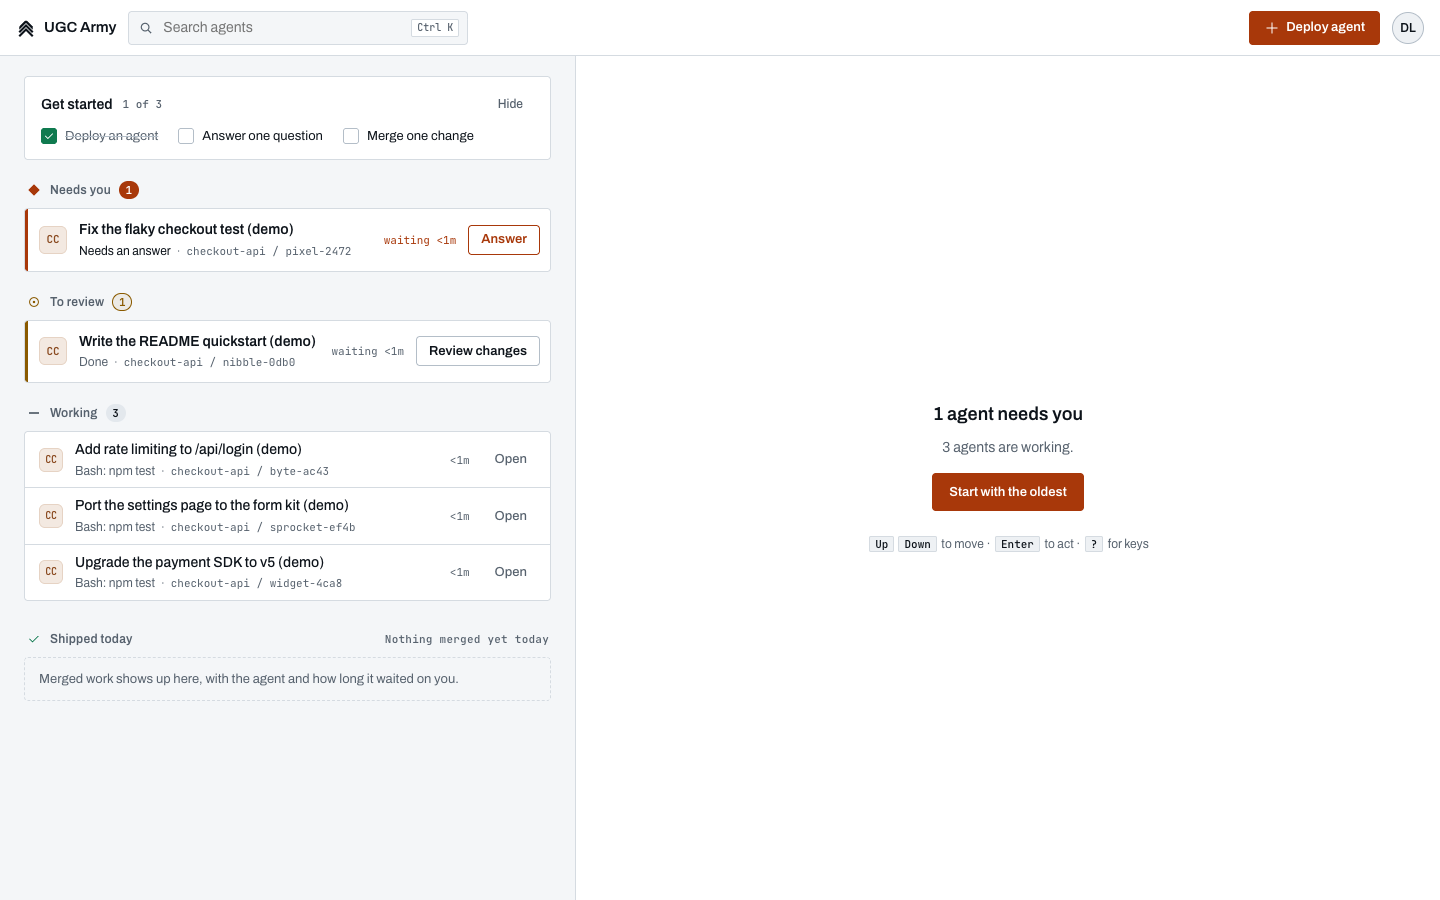
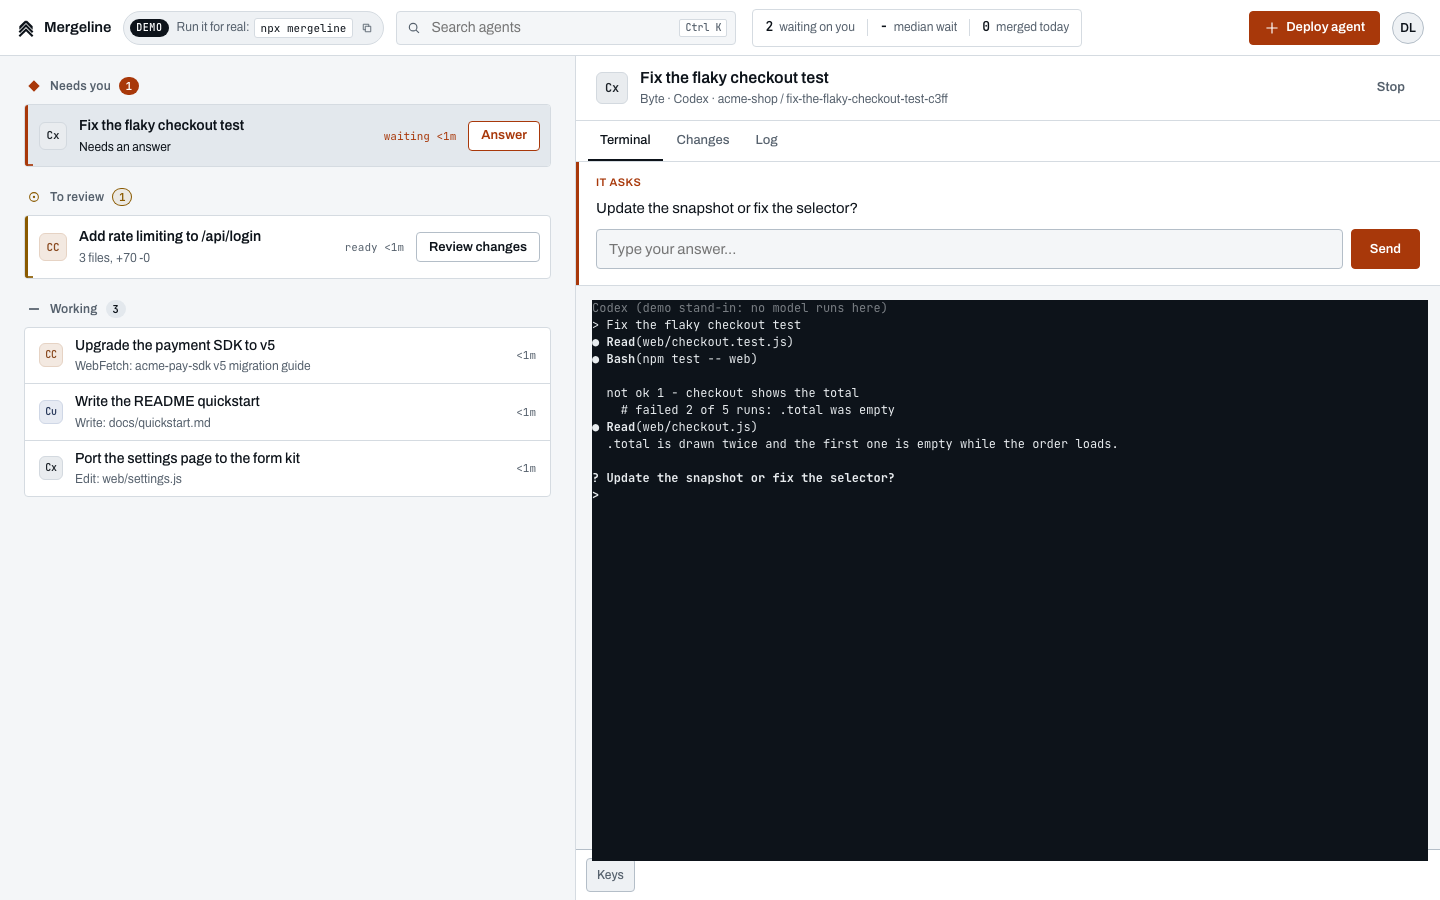
PRODUCT.md: the direction, what changed, what's hidden, the numbers and the pitch
PRODUCT.md is the fundraising build in one page: the wedge (human wait
time across agent CLIs, self-hosted), the business model, every
critique and what was done about it, what was cut or hidden with the
lab that brings it back, time to value and click counts before and
after, and the 60-second investor demo script.

design/measure-final.mjs measures both builds the same way (the
journey from the setup card to a first merge, and the primary screen's
controls and words). The demo shoots answer from the question card.
docs/img's GIF and inbox pictures are the new build's, from the demo.

diff --git a/PRODUCT.md b/PRODUCT.md
@@ -1,0 +1,126 @@
+# Mergeline: the fundraising build
+
+What this branch is, what changed to make it fundable, what was cut or hidden and how to bring it back, the numbers, and the script for showing it to an investor. Mergeline is built on [agent-office](https://github.com/AgentSystemLabs/agent-office) by webdevcody (MIT); LICENSE and NOTICE carry that credit and are unchanged.
+
+## The direction
+
+The POC was a 3D starship bridge where AI coding agents sat at stations, with a 2D view, Mission control, boards, a task queue, meetings, voice, a showcase and Proof of Merge on testnets. It was impressive and hard to explain: many screens, many buttons, and no single number that said why anyone would pay.
+
+The direction we took: **one inbox for every coding agent you run, built around human wait time.** An agent that asks a question at 10:02 and is answered at 10:25 did nothing for 23 minutes. Agent vendors are racing to make agents faster; nobody is measuring or shrinking the time agents spend blocked on a person, across vendors. That is the wedge:
+
+- **Cross-vendor.** Claude Code, Codex and Cursor side by side (OpenCode, Pi and others in beta), each on a branch of its own. A vendor's own dashboard only sees its own agents.
+- **Self-hosted.** It runs on the engineer's laptop or the team's dev box. Code, prompts and the review record never leave it, which is what European and regulated teams ask first.
+- **The metric.** Every merge and send-back is a signed record: which agent and model, who reviewed it, how long it waited on a person. The top bar shows who is waiting now and the median wait today; Numbers shows the week.
+
+Everything that is not that loop is a lab, off by default, still compiled and tested.
+
+### Business model (for the pitch, not the app)
+
+- **Free and open source (MIT), single player.** The inbox, the demo, local merges, the signed log, Numbers. This is the distribution: `npx mergeline` in any repository.
+- **Paid team tier (waitlist on the landing page).** A shared inbox for a team, questions routed to whoever owns them, single sign-on, an audit trail of who merged what and team-level wait-time reporting. Accounts and invite links already work in the free version; routing, SSO and audit export are the paid build.
+- **What the team built beyond the fork.** The fork gave a 3D office with terminals at desks. This team built: the attention ranking that every surface shares, the inbox, the question card, the signed shipped log and its metrics, merging without GitHub, one-command onboarding with no password on your own computer, `mergeline attach`, the scripted demo and its read-only hosted mode, Labs, and the whole Proof of Merge track (devnet bounty escrow, Base Sepolia attestations, ERC-8004 reputation, x402 paid tasks), now parked as a lab.
+
+## What changed in this round, and why
+
+Three critics (an investor, a first user and an engineer) reviewed the build before this round (`design/shots/fundable/review/`). Every item they marked **must** is fixed; most **should** items and several **nice** ones are too. Commits on `product/fundable` after `ae964cad`.
+
+### Musts
+
+| Critique | What we did |
+| --- | --- |
+| The pane was 60% white space at the moment an investor looks | On a wide screen the oldest agent waiting on you opens in the pane by itself; Esc holds it empty until another one starts waiting. The "Start with the oldest" button only shows when you emptied it yourself. |
+| Nothing said why this wins against vendor dashboards, task boards and GitHub | The landing page's subhead is the wedge (who is waiting and for how long, across agent CLIs); human wait time is the second section; a *Why not the tools you already have?* table. The app's top bar carries the pulse: waiting on you now, median wait today, merged today. |
+| The demo diff read as a test harness, with "(demo)" in every title | All final stills, the video and the GIF come from `--demo`, whose agents commit real code (a rate limiter with tests, a selector fix, a quickstart). Titles carry no "(demo)"; one pill in the top bar and a corner tag on the video say it's the demo. |
+| A DEMO card and a checklist pushed the queue 270 px down | The demo note is a pill in the top bar with the command to run it for real; the demo has no Get started checklist; in a real first run the checklist sits under the list. |
+| The hosted demo's shoot timed out | Diagnosed: timing, not a regression. The shoot started the hosted office with the local one, so it was rounds in by the time its shots came, and a row is in To review 12 s of each 85 s round. `tests/demo.test.ts` now follows the hosted demo into its second round (three merges again, no director error); the shoot starts the hosted office just before its shots and fails on any director error. The landing page's **Watch 30 seconds** sits next to **Try the demo** as the fallback. |
+| The question was a raw terminal line, with three ways to answer | A question card over the terminal: the question in plain words, one reply box, a button per numbered choice (read off the screen, so it works for every CLI). The header's second Answer and the terminal's reply bar step aside; the 1/2/3/Esc/^C strip folds behind **Keys**. |
+| Toasts covered the reply box and Merge, toasted your own actions, said "hired" and Labs noise | Toasts stack at the bottom of the list's column (top on a phone). Nobody is toasted about what they just did. "Deployed", not "hired". Switching a lab toasts nobody. |
+| Review had two competing action bars and showed `.agent-office/worktrees/...` | Send back and Merge only; the Changes footer shows in the pane only while something is uncommitted, without the worktree path. To review rows say *3 files, +70 -0* and *ready 2m*. |
+| The avatar menu had four more places to manage work, and "Mission control" competed with home | The menu is Numbers, Settings, Help and keys, Sign out. Issues, Pull requests, the Task queue and Mission control are the **GitHub boards and queue** lab. Labs is at the foot of Settings > Account and in Ctrl+K. |
+| `npx mergeline` returns 404 on npm | The README and the landing page say it isn't on npm yet and how to run it from source; the landing build drops that line with `MERGELINE_NPM_PUBLISHED=1`. Publishing waits on the trademark search (`business/naming.md`). The cold-npx timing is labelled as measured from a local `npm pack` tarball. |
+
+### Shoulds and nices done
+
+- **Setup card**: one line when everything is found (*Claude Code in acme-web, merges on this computer, no GitHub needed*), one button, the rows under **Details**; the usage-numbers question moved to Settings; the top bar's Deploy hides until the first agent; the pane beside it is a looping preview of one row going Working, Needs you, To review, Shipped.
+- **Shipped today** appears with the first merge, and the first merge is said once with how long the loop took.
+- **Rows**: Working rows have no button (the row opens it); the branch moved to the pane's header; the project shows only with more than one; on a phone a row is one tap target with title, one status line and its age. A wait bar along a waiting row's foot grows toward 30 minutes (the signature element: the metric visible at a glance).
+- **Branches named after the task**: `office/fix-the-flaky-checkout-test-3f2a`, not `office/byte-b610`.
+- **The agent you watch finishing** turns the pane to its diff: one click fewer to a merge.
+- **Merge safety**: an agent working in the person's own folder (every `mergeline attach` session) is no longer "merged" by `git add -A` there, which could commit their own edits or a `.env.local`; it is refused with what to do. Merges into one folder are queued; only a half-done merge is aborted as a conflict, other git failures say git's words.
+- **Labs are off over the socket too**: Proof of Merge's, meetings' and voice's messages go nowhere while their lab is off (`src/server/ws/labgate.ts`), not just their menus and HTTP routes.
+- **Read-only demo**: presence and `limits.refresh` dropped quietly for visitors.
+- **Settings > Agents**: no "Office" or `--agent-args` wording, one line for "everyone" instead of a tag per card, the agent limit saved as you leave the box, Save no longer muted text on Signal.
+- **Deploy sheet**: agents this computer lacks are under More with their install line; the project picker hides with one project.
+- **Landing**: the 3D section is gone (Labs and docs keep it), the waitlist is one email field, a facts row near the top.
+
+### Left for later (and why)
+
+- **npm publish, the domain and the hosted demo deploy** wait on the trademark search and an employer clearance (`launch/mergeline/README.md`). Nothing was posted, sent or published.
+- **Traction row with real numbers.** There are no users yet; the page asks for five design partners instead of inventing a number.
+- **Branch prefix.** Branches still start `office/` so existing branches, prune and pull request detection keep working; renaming it is a migration.
+- **Merge all ready with passing tests** (the team headline feature) and a project filter chip are not built; the project picker covers several projects today.
+- **Settings save per field.** The default agent still has a Save button; the agent limit saves as you leave it.
+- **The demo's files** still carry a one-line `[demo]` header comment; the demo test requires everything the demo writes to say so.
+- **The real-agent recording** needs real CLI sign-ins and spends tokens; the cut here is the scripted demo, and says so.
+
+## What was cut or hidden, and how to bring it back
+
+Nothing was deleted. Each lab is switched on by an admin in **Settings > Account > Open Labs...** (or Ctrl+K, Labs), or held on from the command line with `--labs <ids>` or `AGENT_OFFICE_LABS` (`all` for every one).
+
+| Hidden | Lab id | Bring it back |
+| --- | --- | --- |
+| Issues, Pull requests, Task queue, Mission control in the menu and Ctrl+K | `boards` | `--labs boards` |
+| The 3D bridge link and the deck plan in the empty pane (`/bridge` itself always opens) | `bridge` | `--labs bridge` |
+| Goals, milestones, the timeline and crew tabs, the Services board | `ops` | `--labs ops` |
+| The Review bay and the planning whiteboard | `meetings` | `--labs meetings` |
+| Voice chat, screen sharing, dictation | `voice` | `--labs voice` |
+| The bridge's mascot, ship's voice, hands, lounge, rituals, motion and soundscape | `ambience` | `--labs ambience` |
+| Proof of Merge: bounties, payouts, attestations, ERC-8004 reputation, x402, `/pom/` | `proof` | `--labs proof`, or any chain flag (`--x402`, `--attest`, `--reputation`) |
+
+Also moved, not removed: the Get started checklist (under the list; none in the demo), the usage-numbers switch (Settings > Account), the terminal's quick keys (behind **Keys**), the Changes footer's Commit and Discard (shown while something is uncommitted), the 3D Bridge view on the landing page (the docs and `docs/img/bridge-wall.png`), and the 3D Bridge in the video (`REC_BRIDGE=1 node design/record-demo.mjs`).
+
+## Time to value and click counts
+
+Measured with `design/measure-final.mjs` on an M-series Mac, headless Chromium, a fresh home and demo repository per run, the test stand-in agent as Claude Code (no model), both builds the same way (the review build from a `git archive` of `ae964cad`). Results in `design/shots/fundable/final/measure.json` and `final/before-measure/measure.json`. The POC row is from the review round's audit (`design/shots/fundable/review/time-to-value.json`).
+
+| | POC (f8c708f) | Review build (ae964cad) | This build |
+| --- | --- | --- | --- |
+| Install | git clone, npm install, npm install -g (3 commands) | `npx mergeline` (1) | `npx mergeline` (1; from source until it is on npm) |
+| Terminal questions | 1 to 2 | 0 | 0 |
+| Time to first agent at work | not reachable as documented; 55.6 s by the most favourable path | 3.4 s, 1 click, 1 key | 3.4 s, 1 click, 1 key |
+| Time to first merged change (a second agent asks, answered, reviewed, merged) | not reachable in the app | 10.9 s, 5 clicks, 3 keys, 2 typed fields | 10.7 s, **4 clicks**, 3 keys, 2 typed fields |
+| Primary screen, desktop (controls / inputs / words) | 3D: 18 / 0 / 62 plus wall screens; 2D: 28 / 1 / 219 | 16 / 1 / 164 | 18 / 2 / **114** |
+| Primary screen, phone | 19 / 1 / 132 | 12 / 1 / 116 | **9 / 1 / 77** |
+
+The desktop's control count went up by two because the pane is no longer empty: it shows the waiting agent's tabs, its reply box and Send. The words dropped by a third, and the first thing in the pane is now the question with a box to answer it. Cold `npx` from an empty npm cache was 4.0 s to running and 6.3 s to the first agent, measured from a local tarball (`review/timed-npx/timings.json`); a real registry download adds network time.
+
+## The investor demo (60 seconds)
+
+The recording is `design/shots/fundable/final/mergeline-demo.mp4` (60 s, silent, every frame tagged *Demo data: scripted agents, no model runs*); the 30-second GIF is `docs/img/demo.gif`. Live, run `npx mergeline --demo` (or `node bin/agent-office.js --demo` from a clone) before the meeting, and keep the recording open in a tab as the fallback.
+
+| Time | On screen | Say |
+| --- | --- | --- |
+| 0:00 | Title card | "Engineers now run five or ten coding agents at once. The bottleneck isn't the agents: it's how long they sit waiting on you." |
+| 0:05 | The terminal: `npx mergeline --demo` | "One command, in your repository. No account, nothing leaves your machine." |
+| 0:10 | Five agents arrive: Claude Code, Codex, Cursor | "Every vendor's agent in one list, each on its own branch." |
+| 0:14 | Codex's question opens by itself in the pane | "Codex is blocked. It goes to the top and its question opens in plain words." |
+| 0:20 | Typing the answer in one box | "One box. No hunting through terminals. And the top bar counts who's waiting on you." |
+| 0:27 | Claude Code's rate limiter in To review, the diff beside the list | "Claude Code finished: three files, tests pass. The real diff, beside the list." |
+| 0:34 | Merge; the first-merge note | "Merged, without GitHub if you want. Every merge is a signed record: which agent and model, who reviewed it, how long it waited." |
+| 0:40 | The phone: the README merged with one tap | "Same inbox on your phone." |
+| 0:46 | The calm inbox, then Numbers | "Nothing waits on you. And here's the number we sell on: human wait time, per agent and model, week over week." |
+| 0:54 | End card | "Free and open source for one engineer. Teams pay for the shared inbox, routing, SSO and audit. We're raising a pre-seed to take this to the first fifty teams." |
+
+Questions to expect, and the short answers:
+
+- *Isn't this a feature the model vendors ship next quarter?* Each vendor will show its own agents. Teams run several, and the wait-time record has to live with the team, not the vendor.
+- *What's proprietary when the base is MIT?* The ranking, the inbox, the question card, the signed log and its metrics, onboarding and the demo are this team's work; the paid tier (routing, SSO, audit, team reporting) is the business.
+- *Traction?* None yet, honestly: we are signing five design partners who run five or more agents a day.
+
+## Where everything is
+
+- Stills: `design/shots/fundable/final/` (after), `final/before/` and `final/before-after/` (pairs: the POC against now, then the review build against now, first run, the question, review, merge, the menu, Settings, phone and the landing page). Shot with `node design/shoot-final.mjs final`.
+- Video: `final/mergeline-demo.mp4` and `final/demo-contact-sheet.png`; `node design/record-demo.mjs design/shots/fundable/final`.
+- The demo's own shoot, the hosted demo included: `SHOOT_3D=0 node design/shoot-demo.mjs final/demo-shoot`.
+- Measurements: `node design/measure-final.mjs <out>`, `SHOOT_ROOT=<checkout>` for another build.
+- Docs: `README.md`, `docs/inbox.md`, `docs/labs.md`, `docs/landing.md`, `docs/demo.md`; the round's notes are in `design/README.md`.

diff --git a/design/README.md b/design/README.md
@@ -1304,3 +1304,23 @@ What an investor or a first user sees beyond the inbox is now as calm as the inb
 - The Numbers in the demo are thin by design: the demo writes no backdated history, so deck numbers have to come from real use.
 - The Monid USD 7.7M figure had no primary source and is dropped (`launch/mergeline/README.md`).
 - The provider picker in Settings > Agents still has two bridge-era notes (office usage and the cost panel) from `ui/provider.ts`, which the Deploy sheet shares.
+
+## Fundable, the review round: fundraising-ready
+
+Three critics (investor, first user, engineer) reviewed stage 5 from `shots/fundable/review/`; this round fixes every must and most shoulds. The direction, the full list, what is hidden and how to bring it back, the numbers and the investor demo script are in [PRODUCT.md](../PRODUCT.md).
+
+### What changed (check it in under a minute)
+
+1. **The pane is never empty while something waits** (`final/before-after/01-home.png`): the oldest that needs you opens by itself, its question as a card with one reply box (`02-answer.png`).
+2. **The pulse** in the top bar: waiting on you now, the median wait today, merged today. A wait bar grows along each waiting row.
+3. **The demo is a pill**, not a card and a checklist; the setup card is one line and one button beside a looping preview (`05-first-run.png`).
+4. **One way out of review** (`03-review.png`), rows that say what changed, the menu down to four rows (`06-menu.png`), Settings without leftover words (`07-settings-agents.png`), a one-tap phone list (`08-phone.png`).
+5. **Server**: no toasts for your own actions, Labs gated over the socket, merges refused in a shared folder and queued per folder, branches named after the task, the hosted demo tested into its second round.
+6. **Landing** (`10-landing.png`): the wedge above the fold, *Why not*, not on npm yet said plainly, one email field, no 3D section.
+
+Stills: `node design/shoot-final.mjs final` (after) against the review round's shots (`final/before/`, pairs in `final/before-after/`). Video: `node design/record-demo.mjs design/shots/fundable/final` (60 s, silent, tagged demo data). Numbers: `node design/measure-final.mjs` for this build and `SHOOT_ROOT` on a `git archive` of ae964cad. The demo's own shoot with the hosted demo: `SHOOT_3D=0 node design/shoot-demo.mjs final/demo-shoot`.
+
+### Checks
+
+`npm run typecheck`, `npm run build`, `npm test` (all pass but the four launch-kit disclosure tests that fail on this branch's rewritten history). New: `tests/question.test.ts`, the pulse in `tests/metrics.test.ts`, the lab gate in `tests/labs.test.ts`, the refused shared-folder merge and the queued merges in `tests/shiplog.test.ts`, branch names in `tests/worktrees.test.ts`, the hosted demo's second round in `tests/demo.test.ts`, and the question card, the pill and the four-row menu in the browser tests.
+
